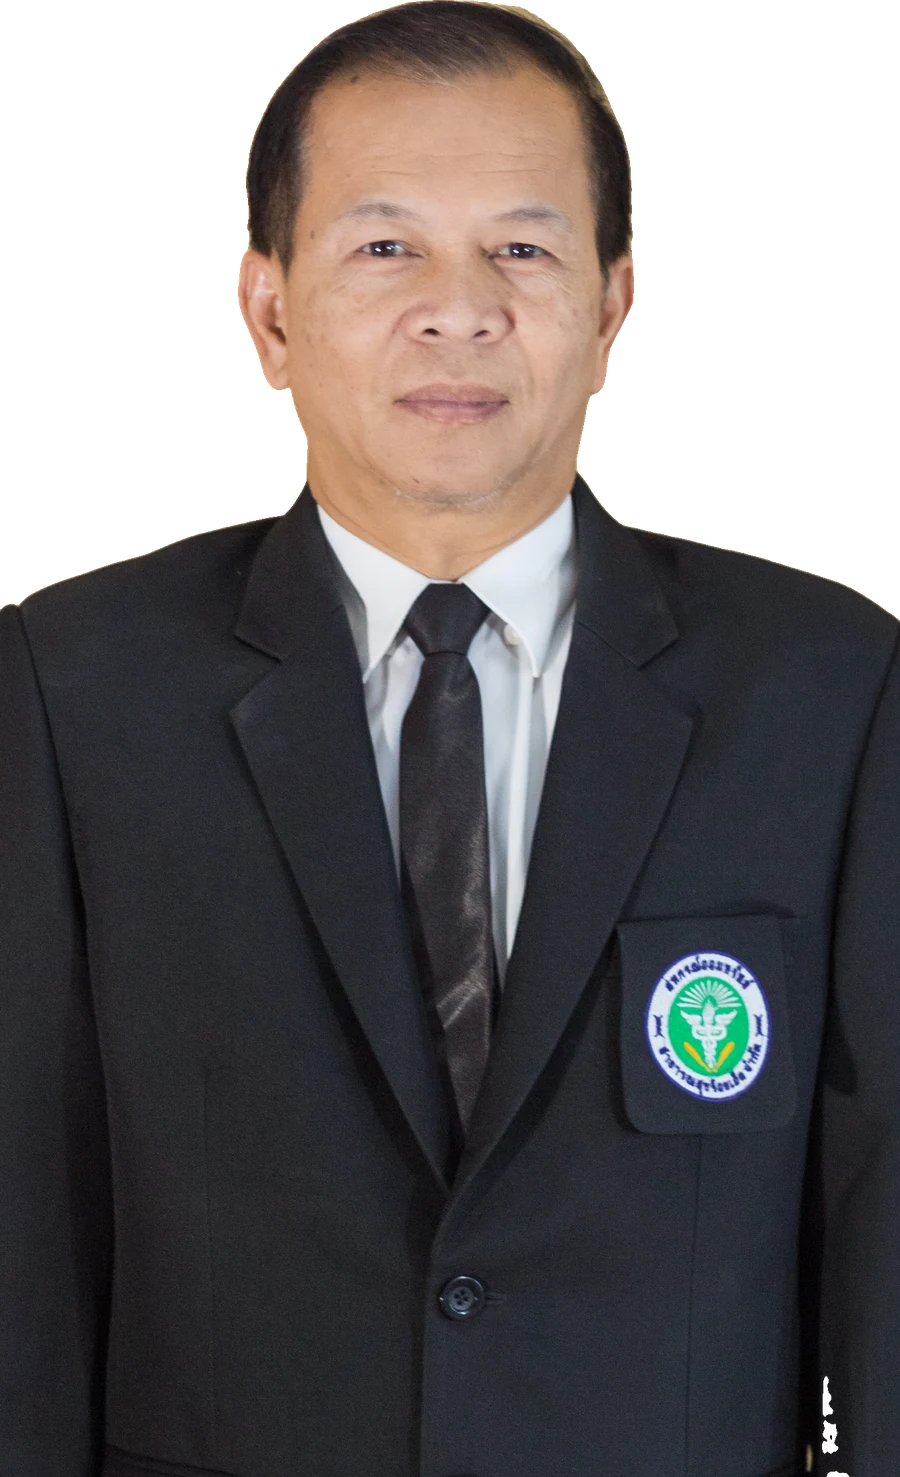
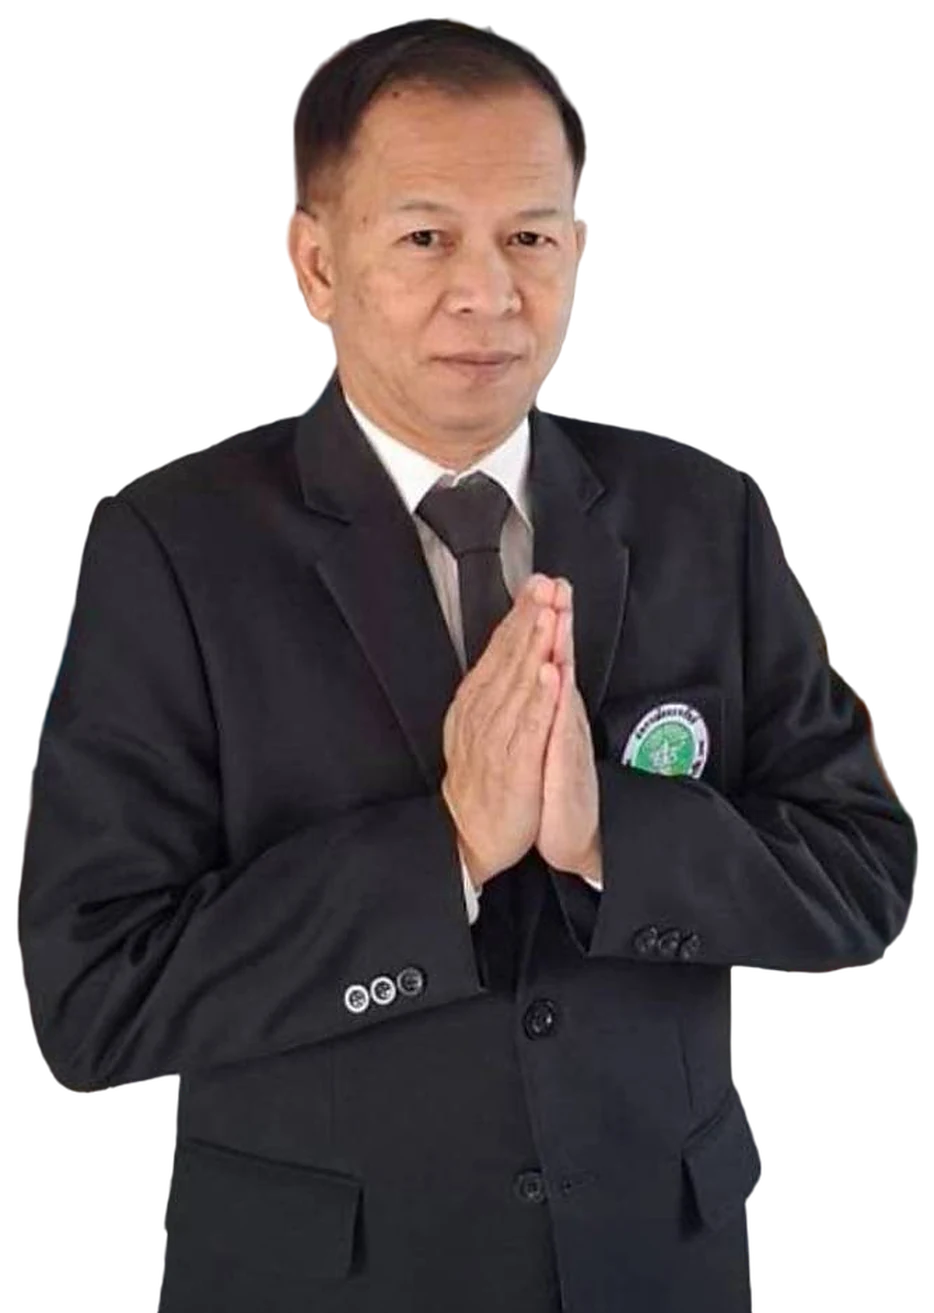
feat: new hero photo (wai pose) from 7400898_0.jpg
Background-removed cutout replaces the studio portrait in the hero stage.
Updated image dimensions and alt text, README photo table, and preview screenshots.

diff --git a/index.html b/index.html
@@ -130,8 +130,8 @@
         <span class="halo-ring r2"></span>
         <span class="halo-ring r3"></span>
       </div>
-      <img class="stage-person" src="assets/photos/hero-cutout.webp" alt="นายวุฒิพงศ์ ชื่นมณี ผู้สมัครกรรมการสหกรณ์ เบอร์ 2 ในชุดสูทพร้อมตราสหกรณ์" width="900" height="1477" fetchpriority="high">
-      <img class="stage-ghost" src="assets/photos/hero-cutout.webp" alt="" aria-hidden="true" width="900" height="1477">
+      <img class="stage-person" src="assets/photos/hero-cutout.webp" alt="นายวุฒิพงศ์ ชื่นมณี ผู้สมัครกรรมการสหกรณ์ เบอร์ 2 ในชุดสูทไหว้สวัสดี" width="934" height="1313" fetchpriority="high">
+      <img class="stage-ghost" src="assets/photos/hero-cutout.webp" alt="" aria-hidden="true" width="934" height="1313">
       <div class="stage-beam" aria-hidden="true"></div>
       <div class="stage-floor" aria-hidden="true"></div>
 

diff --git a/README.md b/README.md
@@ -38,14 +38,14 @@
 
 | ไฟล์ในเว็บ (`assets/photos/`) | ไฟล์ต้นฉบับ | ใช้ในส่วน |
 |---|---|---|
-| `01-office-wai.jpg` | `7400898_0.jpg` (ตัดแถบปุ่มโทรศัพท์ด้านล่างออก) | แกลเลอรี |
+| `01-office-wai.jpg` | `7400898_0.jpg` (ตัดแถบปุ่มโทรศัพท์ด้านล่างออก) | ภาพหลัก (`hero-cutout.webp` ตัดพื้นหลัง), แกลเลอรี |
 | `02-ceremony-wai.jpg` | `7429482.jpg` | จดหมายถึงสมาชิก, แกลเลอรี |
 | `03-workplace-portrait.jpg` | `7448149.jpg` | แกลเลอรี |
 | `04-heart-sofa.jpg` | `7456739.jpg` | แกลเลอรี |
 | `05-garland-heart.jpg` | `7475755.jpg` | ส่วนปิดท้าย, แกลเลอรี |
 | `06-coop-office-front.jpg` | `7494520_0.jpg` | เขตพื้นที่เลือกตั้ง, แกลเลอรี |
 | `07-coop-office-standing.jpg` | `7494523_0.jpg` | แกลเลอรี |
-| `08-studio-portrait.jpg` | `IMG_0513_0.jpg` | ภาพหลัก (`hero-cutout.webp` ตัดพื้นหลัง), แกลเลอรี |
+| `08-studio-portrait.jpg` | `IMG_0513_0.jpg` | แกลเลอรี |
 | `09-studio-arms-crossed.jpg` | `IMG_0517_0.jpg` | รู้จักผู้สมัคร, แกลเลอรี |
 | `10-poster-policies.jpg` | `LINE_ALBUM_หาเสียง69_261005_1.jpg` | แกลเลอรี, ภาพตัวอย่างเมื่อแชร์ลิงก์ |
 | `11-poster-letter.jpg` | `LINE_ALBUM_หาเสียง69_261005_2.jpg` | แกลเลอรี |
